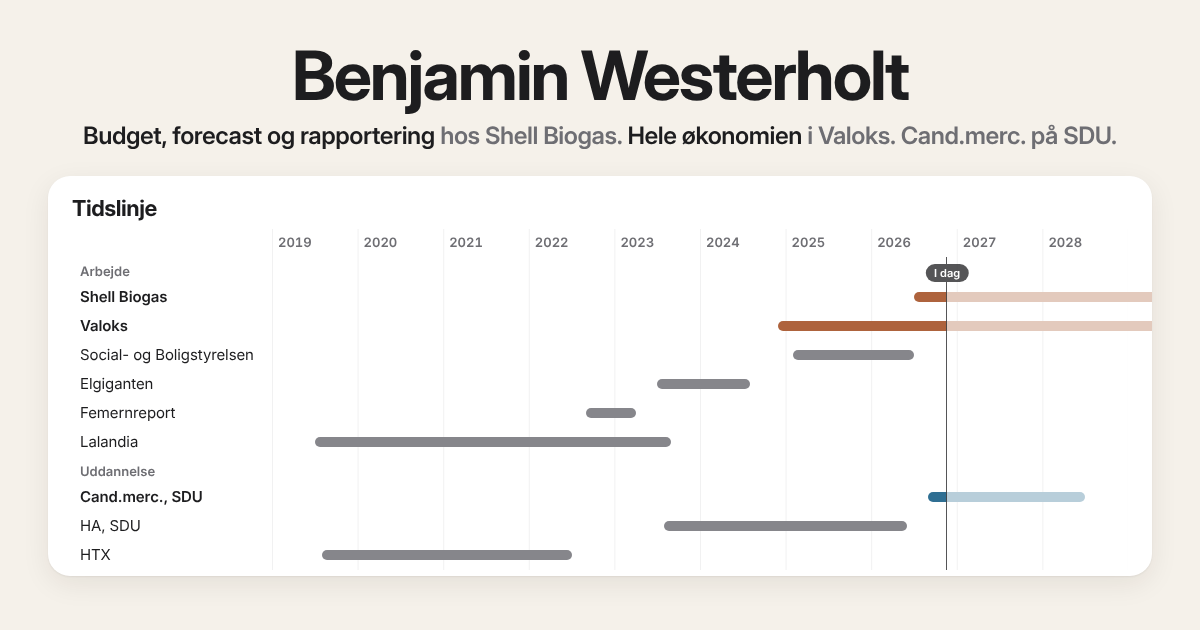
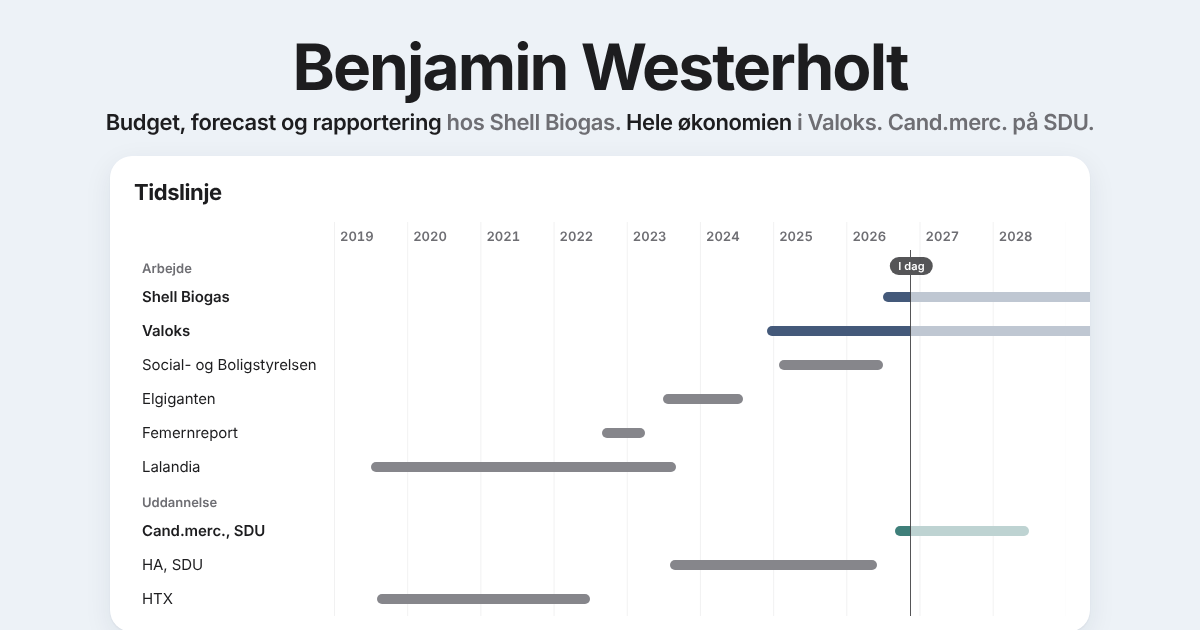
Give the homepage its own pastel blue theme (#22)
* Vis pladesamlingen som porteføljeprojekt på forsiden

Nyt afsnit "Et sideprojekt" med to eksempelbilleder (søgning med
sangliste/medvirkende og den delte ønskeliste). Samlingen er stadig
bag kodeord, så intet privat indhold eksponeres.

Claude-Session: https://claude.ai/code/session_013PKhYX98bUU2vrPQS6UNfe

* Show a live demo of the record collection on the homepage

The project section now holds a window with a working demo at
/pladesamling-demo: a made-up collection of classic rock albums, no
password, and a wishlist kept in each visitor's own browser. Covers,
track lists and credits are looked up the same way as in the real
collection. The text now tells about the record interest and the
technical side.

Claude-Session: https://claude.ai/code/session_013PKhYX98bUU2vrPQS6UNfe

* List the record collection as a project, with less text

Claude-Session: https://claude.ai/code/session_013PKhYX98bUU2vrPQS6UNfe

* Present the record collection like a developer's side project

Drop the tags, add a short "Under motorhjelmen" list and links to the
demo and the code. The demo no longer shows any names on the wishlist.

Claude-Session: https://claude.ai/code/session_013PKhYX98bUU2vrPQS6UNfe

* Don't mention the size of the collection

Claude-Session: https://claude.ai/code/session_013PKhYX98bUU2vrPQS6UNfe

* Give the homepage its own pastel blue theme with a faded navy accent

The record collection keeps its warm orange look; the homepage now has
[…]

diff --git a/index.html b/index.html
@@ -6,7 +6,7 @@
 <title>Benjamin Westerholt</title>
 <meta name="description" content="Budget, forecast og rapportering hos Shell Biogas. Økonomiansvarlig i Valoks. Cand.merc. i Accounting and Finance på SDU. Odense.">
 <meta name="author" content="Benjamin Westerholt">
-<meta name="theme-color" content="#F5F1EA">
+<meta name="theme-color" content="#EDF2F7">
 <meta name="color-scheme" content="light">
 <link rel="canonical" href="https://westerholt.dk/">
 
@@ -28,15 +28,15 @@
 /* Samme designsprog som pladesamlingen: Apples systemskrift, varm baggrund,
    hvide kort, gennemsigtig menulinje og bløde bevægelser. */
 :root{
-  --bg:#F5F1EA;--card:#FFFFFF;--ink:#1D1D1F;--text:#3A3A3C;--muted:#6E6E73;
+  --bg:#EDF2F7;--card:#FFFFFF;--ink:#1D1D1F;--text:#3A3A3C;--muted:#6E6E73;
   --sep:rgba(60,60,67,.14);--grid:rgba(60,60,67,.07);--fill:rgba(118,118,128,.12);--fill2:rgba(118,118,128,.2);
-  --hover:rgba(60,40,20,.045);
-  --accent:#AE633D;--accent-hi:#935434;--accent-ink:#9D5734;--accent-soft:#F3E3D9;
-  --blue:#2F6F93;--blue-soft:#E2EEF5;
+  --hover:rgba(20,40,70,.045);
+  --accent:#44597A;--accent-hi:#354868;--accent-ink:#3A4F6E;--accent-soft:#DCE5EF;
+  --blue:#3F7F7A;--blue-soft:#DDEDEB;
   --past:#86868B;
-  --bar:rgba(245,241,234,.72);
-  --shadow:0 1px 2px rgba(40,25,10,.06),0 8px 28px rgba(40,25,10,.08);
-  --shadow-lg:0 2px 6px rgba(40,25,10,.08),0 24px 60px rgba(40,25,10,.14);
+  --bar:rgba(237,242,247,.72);
+  --shadow:0 1px 2px rgba(20,35,60,.06),0 8px 28px rgba(20,35,60,.08);
+  --shadow-lg:0 2px 6px rgba(20,35,60,.08),0 24px 60px rgba(20,35,60,.14);
   --ease:cubic-bezier(.22,1,.36,1);
   --font:-apple-system,BlinkMacSystemFont,"SF Pro Text","Segoe UI Variable Text","Segoe UI",Roboto,"Helvetica Neue",Helvetica,Arial,sans-serif;
   --font-display:-apple-system,BlinkMacSystemFont,"SF Pro Display","Segoe UI Variable Display","Segoe UI",Roboto,"Helvetica Neue",Helvetica,Arial,sans-serif;
@@ -56,7 +56,7 @@ a:hover{text-decoration:underline;text-underline-offset:.18em}
 button{font:inherit;color:inherit;letter-spacing:inherit}
 ::selection{background:var(--accent-soft);color:var(--ink)}
 :focus{outline:none}
-:focus-visible{outline:none;box-shadow:0 0 0 4px rgba(174,99,61,.35);border-radius:10px}
+:focus-visible{outline:none;box-shadow:0 0 0 4px rgba(68,89,122,.35);border-radius:10px}
 .wrap{max-width:calc(var(--max) + 2 * var(--side));margin-inline:auto;padding-inline:var(--side)}
 .sr{position:absolute;width:1px;height:1px;overflow:hidden;clip:rect(0 0 0 0);clip-path:inset(50%);white-space:nowrap}
 .skip{position:absolute;left:-999px;top:10px;z-index:50;background:var(--ink);color:#fff;border-radius:999px;padding:8px 16px;font-size:15px;font-weight:600}
@@ -75,7 +75,7 @@ button{font:inherit;color:inherit;letter-spacing:inherit}
 
 /* Menulinjen: gennemsigtigt materiale, som siden ruller under */
 .nav{position:sticky;top:0;z-index:10;background:var(--bar);-webkit-backdrop-filter:blur(20px) saturate(180%);backdrop-filter:blur(20px) saturate(180%)}
-.nav::after{content:"";position:absolute;left:0;right:0;top:100%;height:14px;pointer-events:none;background:linear-gradient(rgba(245,241,234,.75),rgba(245,241,234,0));opacity:0;transition:opacity .25s}
+.nav::after{content:"";position:absolute;left:0;right:0;top:100%;height:14px;pointer-events:none;background:linear-gradient(rgba(237,242,247,.75),rgba(237,242,247,0));opacity:0;transition:opacity .25s}
 .nav.scrolled::after{opacity:1}
 .nav__in{display:flex;align-items:center;justify-content:space-between;gap:16px;height:52px}
 .nav__name{font-size:1.0625rem;font-weight:600;color:var(--ink);letter-spacing:-.015em;opacity:0;transform:translateY(4px);transition:opacity .3s var(--ease),transform .3s var(--ease)}
@@ -184,7 +184,7 @@ button{font:inherit;color:inherit;letter-spacing:inherit}
 .tile--ai{grid-area:ai;background:var(--ink);color:#fff;box-shadow:var(--shadow-lg);padding-block:30px 34px}
 .tile--ai h3{color:#fff;font-size:clamp(1.5rem,1.2rem + 1.2vw,2rem);letter-spacing:-.025em}
 .tile--ai p{color:rgba(255,255,255,.78);font-size:clamp(1.0625rem,1rem + .4vw,1.25rem);max-width:28rem;margin-top:10px}
-.tile--ai svg{color:#E5B496}
+.tile--ai svg{color:#B9CBE2}
 .tile--excel{grid-area:excel}
 .tile--eco{grid-area:eco}
 .tile--tools{grid-area:tools}
@@ -223,8 +223,8 @@ button{font:inherit;color:inherit;letter-spacing:inherit}
 .item:target{background:var(--accent-soft)}
 .logo{grid-row:span 2;width:44px;height:44px;border-radius:11px;object-fit:cover;background:#fff;box-shadow:0 0 0 1px rgba(60,60,67,.12)}
 .mono{grid-row:span 2;width:44px;height:44px;border-radius:11px;display:grid;place-items:center;background:linear-gradient(180deg,#A6AAB6,#858994);color:#fff;font-family:var(--font-display);font-size:1.1875rem;font-weight:600;letter-spacing:0}
-.item.is-now .mono{background:linear-gradient(180deg,#BE7650,#A55C38)}
-.edu .item.is-now .mono{background:linear-gradient(180deg,#3F86AE,#2A6386)}
+.item.is-now .mono{background:linear-gradient(180deg,#5A7194,#44597A)}
+.edu .item.is-now .mono{background:linear-gradient(180deg,#4F8F89,#3A716C)}
 .item h3{font-size:1.0625rem;font-weight:600;letter-spacing:-.015em;line-height:1.3;font-family:var(--font)}
 .item__role{font-size:.9375rem;color:var(--muted);line-height:1.35;letter-spacing:-.005em}
 .item__text{grid-column:2 / -1;margin-top:4px;font-size:.9375rem;color:var(--text);letter-spacing:-.005em}
